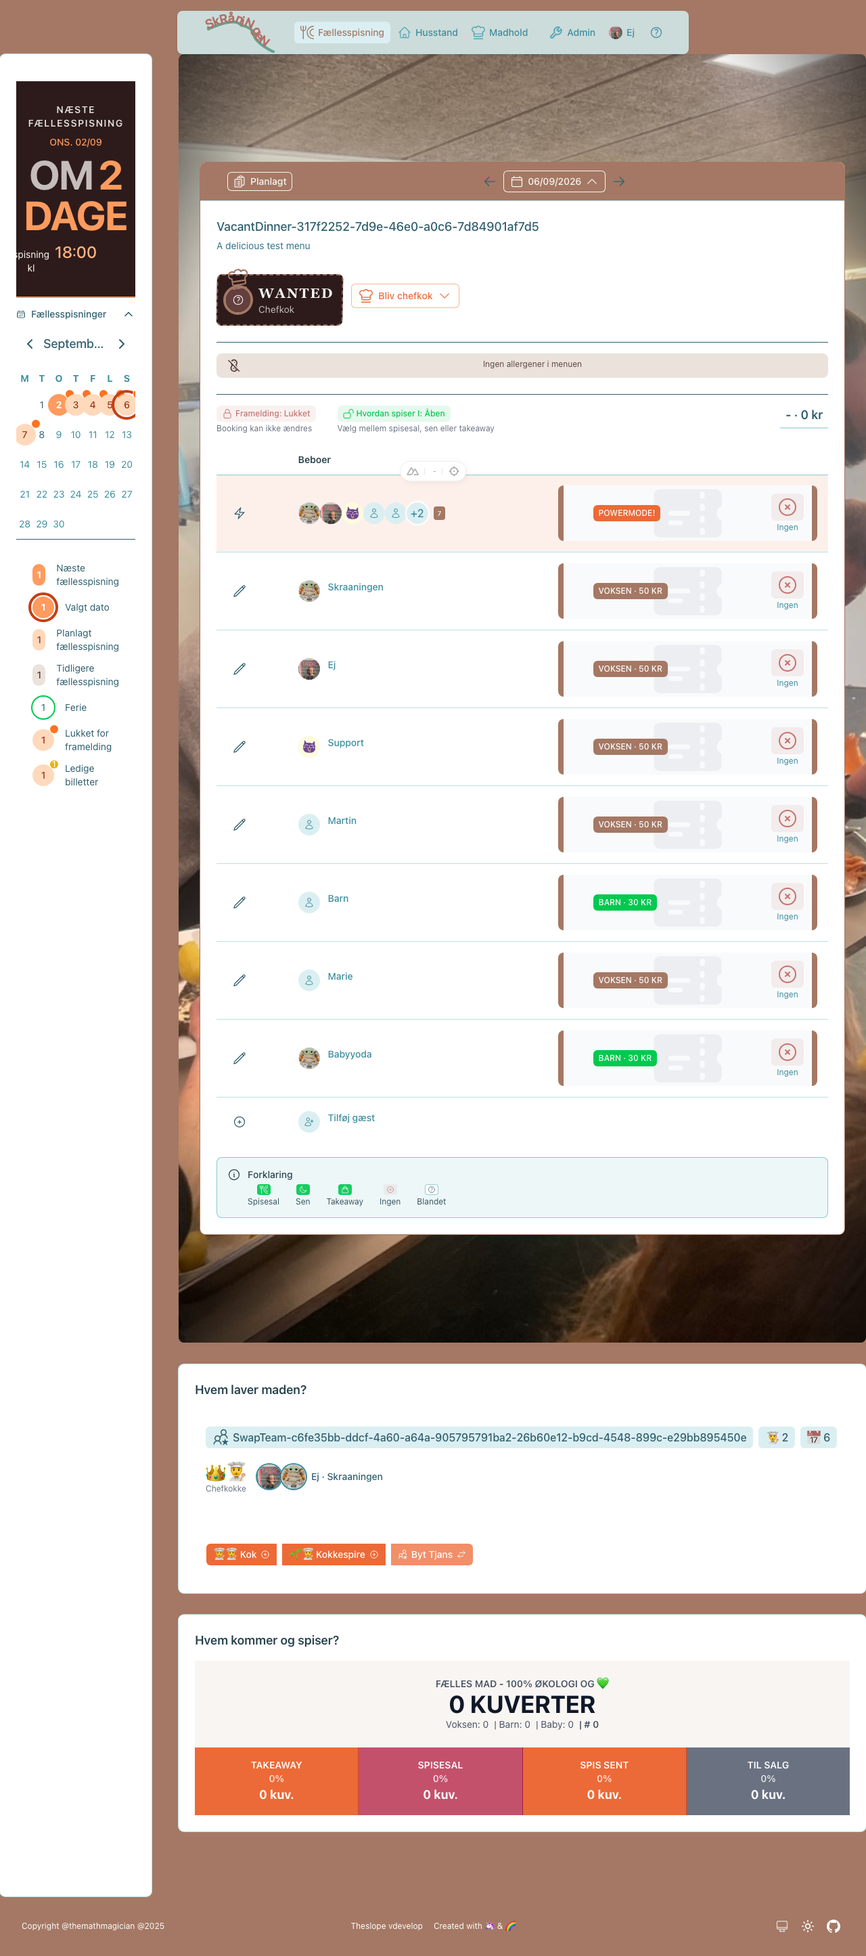
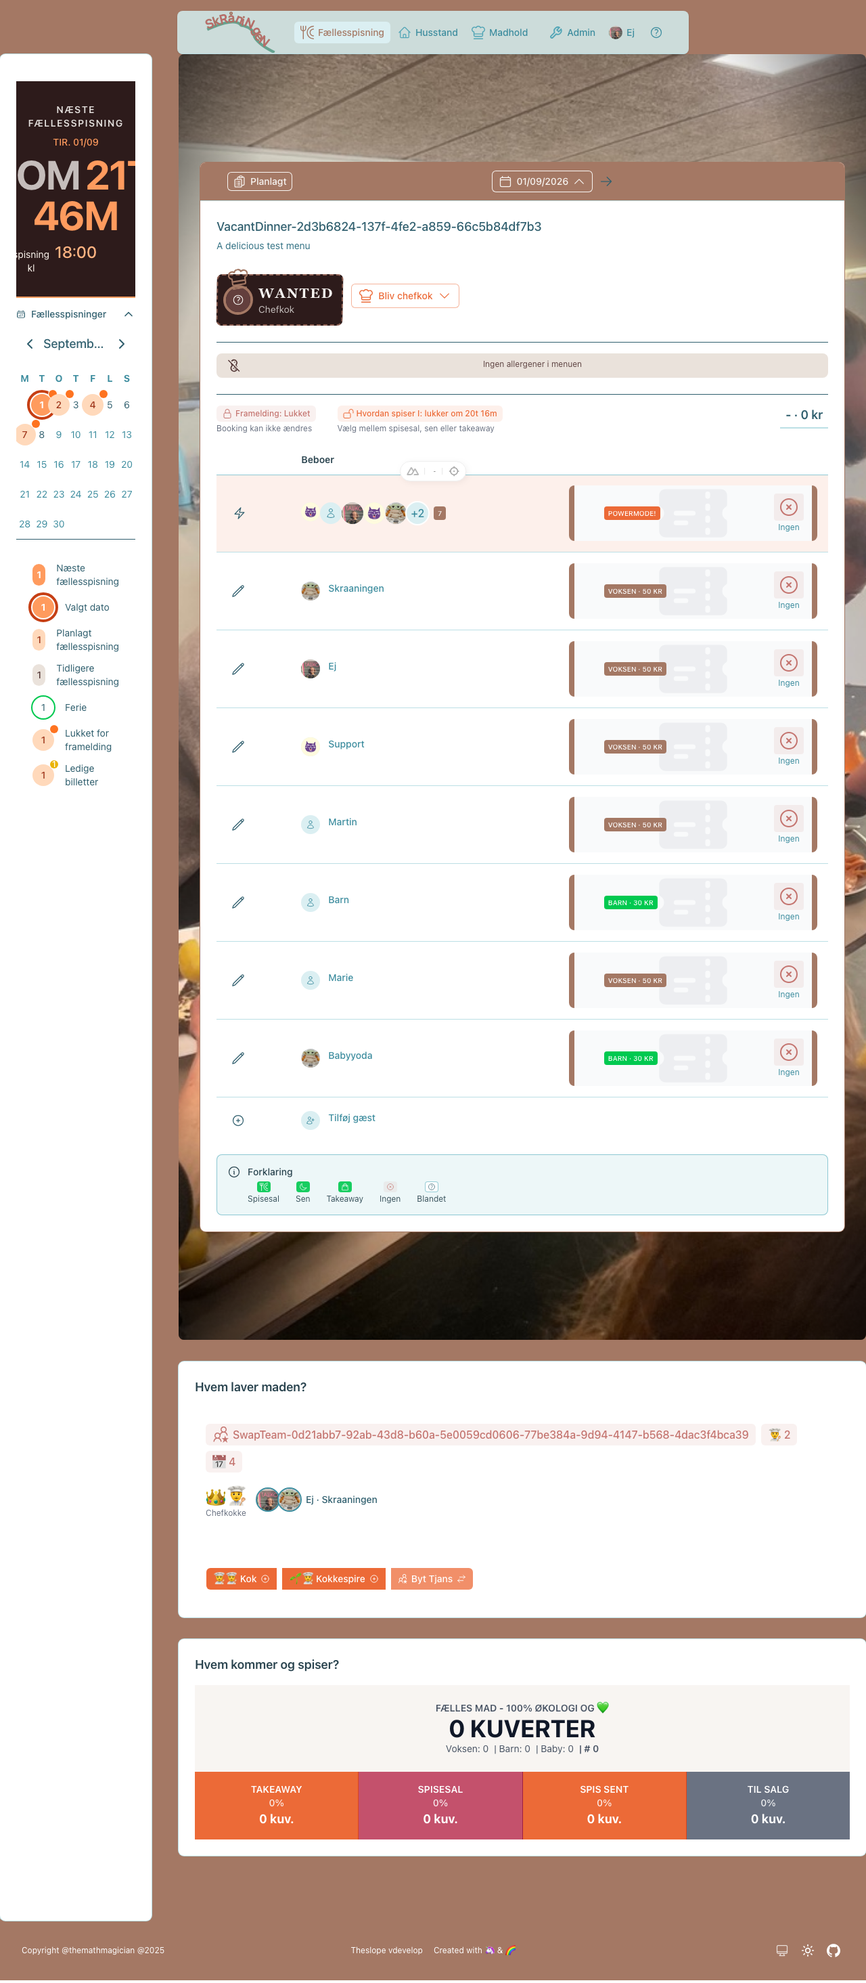
Updated notification feature with wiring poc first. Simplified e2e tests for chef takeover

diff --git a/tests/e2e/ui/serial/ChefSwap.e2e.spec.ts b/tests/e2e/ui/serial/ChefSwap.e2e.spec.ts
@@ -6,7 +6,7 @@ import {formatDate} from '~/utils/date'
 import {isThisACookingDay} from '~/utils/season'
 import testHelpers from '~~/tests/e2e/testHelpers'
 
-const {validatedBrowserContext, memberValidatedBrowserContext, pollUntil, getSessionUserInfo, temporaryAndRandom, doScreenshot} = testHelpers
+const {validatedBrowserContext, memberValidatedBrowserContext, pollUntil, pollForText, getSessionUserInfo, temporaryAndRandom, doScreenshot} = testHelpers
 const {TeamRoleSchema} = useCookingTeamValidation()
 const TeamRole = TeamRoleSchema.enum
 
@@ -44,9 +44,9 @@ test.describe('Chef Swap — volunteer flow', () => {
             5
         )
 
-    // Non-cooking days carry no generated event; the list is identical across
-    // workers (pure season config), so index gives each test a race-free date.
-    const createVacantDinner = async (ctx: BrowserContext, index: number) => {
+    // Non-cooking days carry no generated event. All tests share the first free date:
+    // afterEach empties the calendar, so dinners never coexist on it.
+    const createVacantDinner = async (ctx: BrowserContext) => {
         const season = await SeasonFactory.createActiveSeason(ctx)
 
         const freeDates: Date[] = []
@@ -56,8 +56,8 @@ test.describe('Chef Swap — volunteer flow', () => {
             if (!isThisACookingDay(cursor, season.cookingDays)) freeDates.push(new Date(cursor))
             cursor.setDate(cursor.getDate() + 1)
         }
-        expect(freeDates.length, 'season needs a free date per test').toBeGreaterThan(index)
-        const date = freeDates[index]!
+        expect(freeDates.length, 'season needs a free date').toBeGreaterThan(0)
+        const date = freeDates[0]!
         date.setHours(12, 0, 0, 0)
 
         const dinner = await DinnerEventFactory.createDinnerEvent(ctx, {
@@ -86,9 +86,16 @@ test.describe('Chef Swap — volunteer flow', () => {
         await SeasonFactory.assignMemberToTeam(adminCtx, teamId, memberInhabitantId, TeamRole.CHEF)
     })
 
+    // Runs on failure too — the shared date must be free before the next test
+    test.afterEach(async ({browser}) => {
+        const adminCtx = await validatedBrowserContext(browser)
+        for (const id of createdDinnerIds.splice(0)) {
+            await DinnerEventFactory.deleteDinnerEvent(adminCtx, id).catch(() => null)
+        }
+    })
+
     test.afterAll(async ({browser}) => {
         const adminCtx = await validatedBrowserContext(browser)
-        for (const id of createdDinnerIds) await DinnerEventFactory.deleteDinnerEvent(adminCtx, id).catch(() => null)
         for (const id of createdTeamIds) await SeasonFactory.deleteCookingTeam(adminCtx, id)
     })
 
@@ -97,10 +104,10 @@ test.describe('Chef Swap — volunteer flow', () => {
         {label: '/dinner', url: (date: Date) => `/dinner?date=${formatDate(date)}`}
     ]
 
-    mounts.forEach(({label, url}, mountIndex) => {
+    mounts.forEach(({label, url}) => {
         test(`${label}: chef lifecycle — volunteer then Meld afbud returns the dinner to vacant`, async ({browser}) => {
             const adminCtx = await validatedBrowserContext(browser)
-            const dinner = await createVacantDinner(adminCtx, mountIndex * 3)
+            const dinner = await createVacantDinner(adminCtx)
 
             const memberCtx = await memberValidatedBrowserContext(browser)
             const page = await memberCtx.newPage()
@@ -128,8 +135,8 @@ test.describe('Chef Swap — volunteer flow', () => {
             expect(assignResult!.status, 'assign-role must succeed').toBe(200)
             await expectDinnerChef(memberCtx, dinner.id, memberInhabitantId)
 
-            await expect(page.locator(ROLE_TRIGGER).first(), 'trigger leaves the volunteer label once chef').not.toContainText('Bliv chefkok')
-            await expect(page.locator(CHEF_WANTED).first(), 'WANTED placeholder gone').not.toBeVisible()
+            // Steady state: the server confirmed the chef; interact only once the UI settled on it
+            await pollForText(page, ROLE_TRIGGER, 'Rediger chefkokketjans')
             await expect(page.locator(CHEF_DISPLAY).first(), 'chef portrait renders after volunteer').toBeVisible()
             if (label === '/dinner') await doScreenshot(page, 'chef/role-assigned', true)
 
@@ -144,14 +151,13 @@ test.describe('Chef Swap — volunteer flow', () => {
             expect(removeResult!.status, 'remove-role must succeed').toBe(200)
             await expectDinnerChef(memberCtx, dinner.id, null)
 
-            await expect(page.locator(ROLE_TRIGGER).first(), 'trigger back to "Bliv chefkok"').toContainText('Bliv chefkok')
-            await expect(page.locator(CHEF_DISPLAY).first(), 'chef portrait gone').not.toBeVisible()
+            await pollForText(page, ROLE_TRIGGER, 'Bliv chefkok')
             await expect(page.locator(CHEF_WANTED).first(), 'dinner vacant again after Meld afbud').toBeVisible()
         })
 
         test(`${label}: takeover — member takes over the chefkok duty from the current chef`, async ({browser}) => {
             const adminCtx = await validatedBrowserContext(browser)
-            const dinner = await createVacantDinner(adminCtx, mountIndex * 3 + 2)
+            const dinner = await createVacantDinner(adminCtx)
             const adminInhabitantId = (await getSessionUserInfo(adminCtx)).inhabitantId
             await DinnerEventFactory.assignRoleToDinnerEvent(adminCtx, dinner.id, adminInhabitantId, TeamRole.CHEF)
 
@@ -176,7 +182,7 @@ test.describe('Chef Swap — volunteer flow', () => {
 
         test(`${label}: cancelling the volunteer form leaves the dinner without a chef if there was no chef before`, async ({browser}) => {
             const adminCtx = await validatedBrowserContext(browser)
-            const dinner = await createVacantDinner(adminCtx, mountIndex * 3 + 1)
+            const dinner = await createVacantDinner(adminCtx)
 
             const memberCtx = await memberValidatedBrowserContext(browser)
             const page = await memberCtx.newPage()

diff --git a/tests/e2e/testHelpers.ts b/tests/e2e/testHelpers.ts
@@ -213,6 +213,17 @@ const daysFromNow = (days: number) => {
     return d
 }
 
+/**
+ * Waits until the first element matching selector renders the expected text.
+ * Steady-state UI wait: interact only after the page settled on the state the server confirmed.
+ */
+const pollForText = (page: Page, selector: string, expected: string, maxAttempts?: number) =>
+    pollUntil(
+        async () => await page.locator(selector).first().textContent().catch(() => ''),
+        text => !!text?.includes(expected),
+        maxAttempts
+    )
+
 const testHelpers = {
     salt,
     saltedId,
@@ -221,6 +232,7 @@ const testHelpers = {
     validatedBrowserContext,
     memberValidatedBrowserContext,
     pollUntil,
+    pollForText,
     doScreenshot,
     selectDropdownOption,
     getSessionUserInfo,

diff --git a/docs/features/feature-proposal-notifications.md b/docs/features/feature-proposal-notifications.md
@@ -24,6 +24,7 @@ Expected volume: **10–50 notifications/day** once the trigger catalog lands (c
 | Address storage | **Normalized** — channels only; addresses resolved from `User.email` / `User.phone` at enqueue time | Email/phone are Heynabo-owned (nightly import overwrites them) → normalized means zero drift when HN data changes. The queue message snapshots the resolved address in `to:` for audit. Accepted limitation: SMS requires a phone in Heynabo. Upgrade path: TheSlope-owned `notificationPhone` override column later (non-breaking) |
 | v1 trigger | **Test notification only** — "Send testbesked" in the profile proves both channels end-to-end | Every future trigger is one template + one `notifyUsers()` call site (see Out of Scope) |
 | Templates | Danish, **app-side**; producer enqueues fully-rendered content | Domain knowledge stays in the app; the worker stays generic and reusable. Email `{subject, text, html?}`, SMS `{text}` ≤160 GSM-7 (æøå are in the GSM-7 basic set) |
+| Build order | **Infra-first — "don't touch theslope until the basics work"**: the delivery-pipe phase stands up the worker + queues and proves real delivery via a `make notify-test-dev` smoke target (Cloudflare Queues HTTP publish API); the Nuxt app is only modified from the schema phase on | The delivery pipe is verified end-to-end (real e-mail + SMS) before any app wiring; the smoke target remains a permanent ops tool |
 
 ## Architecture
 
@@ -378,7 +379,7 @@ logs-notifications-prod:     # npx wrangler tail theslope-notifications-prod --f
 
 | Item | Requirement | Cost |
 |---|---|---|
-| Workers Paid | required for Queues + Email Service | $5/mo — likely already active (`cpu_ms=180_000` in `wrangler.toml` is Paid-only); **verify in dashboard, Phase 0** |
+| Workers Paid | required for Queues + Email Service | $5/mo — **already active** ✓ |
 | Queues | included in Paid | 1M ops/mo included, then $0.40/M — negligible at this volume |
 | Email Service (public beta Apr 2026) | Paid + zone enablement | 3,000 mails/mo included, then $0.35/1k |
 | GatewayAPI SMS (DK) | prepaid account | 0.307 DKK/SMS → ~92–460 DKK/mo at 300–1,500 SMS/mo; no monthly fee |
@@ -409,19 +410,20 @@ Sources: developers.cloudflare.com (email-service pricing/limits/workers-api, qu
 | ADR-007 | All `$fetch` in the auth store; component renders from store/session state |
 | ADR-010 | Serialization confined to composable transforms + repository; domain types everywhere else |
 | ADR-012 | `Prisma.skip` branch in `serializeUserPartial` |
-| ADR-015 | Deliberately N/A — no send job; the queue replaces the outbox pattern (documented in new ADR-017) |
-| **ADR-017 (new)** | "Notification delivery via dedicated worker and versioned queue contract" — producer/consumer split, stateless consumer, contract ownership, provider ports, no-PII logging, the "notify never throws" degradation rule |
+| ADR-015 | Deliberately N/A — no send job; the queue replaces the outbox pattern (documented in ADR-017) |
+| **ADR-017 [Notification delivery via dedicated worker + versioned queue contract]** (new) | Producer/consumer split, stateless consumer, contract ownership, provider ports, no-PII logging, the "notify never throws" degradation rule |
 
 ## Phases (TDD, each independently shippable)
 
 > **Convention:** the USER runs all migrations, db operations, and account/infra commands (`make prisma-create-migration`, `npm run db:migrate:*`, `wrangler queues create/update`, `wrangler secret put`, dashboard steps). Claude prepares files and command lines; the user executes them.
 
-### Phase 0 — This proposal + account prerequisites ✍
+### Prerequisites — accounts + queues ✍
 
 Manual/dashboard, no code:
-1. Verify **Workers Paid**; enable **Email Service** for zone `skraaningen.dk`; sender domain verification (SPF/DKIM/DMARC auto — domain already on Cloudflare DNS); register `noreply@skraaningen.dk`.
-2. GatewayAPI account on the **EU platform** + API token (parked in the password manager until Phase 4).
-3. Create queues — **user-run** (separate DLQs per env — separate consumers, separate blast radius):
+1. Account is on **Workers Paid** ✓. Enable **Email Service** for zone `skraaningen.dk`; sender domain verification (SPF/DKIM/DMARC auto — domain already on Cloudflare DNS); register `noreply@skraaningen.dk`.
+2. GatewayAPI account on the **EU platform** + API token (needed by the delivery-pipe phase for `make secrets-notifications-dev`).
+3. A Cloudflare API token with **Queues Edit** permission for the smoke target (local `.env`: `CLOUDFLARE_API_TOKEN`, `CLOUDFLARE_ACCOUNT_ID` — the existing CI deploy token may already qualify; verify).
+4. Create queues — **user-run** (separate DLQs per env — separate consumers, separate blast radius):
 
 ```bash
 npx wrangler queues create theslope-notifications-dev
@@ -433,57 +435,78 @@ npx wrangler queues update theslope-notifications-dlq-prod --message-retention-p
 ```
 
 Do **not** create the `-local` queue names remotely — they only ever exist under miniflare.
-4. `docs/ops-runbook.md` — new "Notifications" section: queues, DLQ triage (incl. the PII/14d note), sender verification, secret rotation.
+5. `docs/ops-runbook.md` — new "Notifications" section: queues, DLQ triage (incl. the PII/14d note), sender verification, secret rotation, smoke target.
 
-### Phase 1 — Schema + serialization (no behavior change)
+### Delivery pipe — worker + `make notify-test-dev` smoke target (theslope UNTOUCHED)
+
+The whole delivery system stands alone and is proven with real messages before any app work. Only `workers/`, `Makefile`, `package.json` (`test:worker` script + pool-workers devDep) and CI are touched — **zero changes to app/server/prisma code**.
+
+- **Tests first:** contract accept/reject matrix (bad version, bad msisdn, >160 SMS, missing subject); consumer spec (pool-workers: batch of [valid email, valid sms, poison] with fake `EMAIL` binding + mocked `fetch` → ack/ack/ack; retryable throw → `msg.retry` with backoff; terminal → ack); provider spec (GatewayAPI status taxonomy parametrized: 200/429/500/400/401/402).
+- Add devDep `@cloudflare/vitest-pool-workers` (**verify peer range against root vitest 3.2.4 at install**; fallback: the handler takes `(batch, env)` so plain-node vitest with fakes works), `vitest.config.ts` kept OUT of root vitest projects, npm script `test:worker`.
+- Files: `workers/notifications/` complete — `src/{index,contract,delivery,mask}.ts`, `src/providers/{email,sms}.ts`, `wrangler.toml`, `tsconfig.json`, `vitest.config.ts`, tests.
+- Makefile: `deploy-notifications-{dev,prod}`, `secrets-notifications-{dev,prod}`, `logs-notifications-{dev,prod}`, and the smoke target — a plain curl against the [Queues HTTP publish API](https://developers.cloudflare.com/queues/examples/publish-to-a-queue-via-http/) with a contract-valid body (no app code, no extra worker routes):
+
+```make
+notify-test-dev: ## Smoke test: publish contract-valid EMAIL+SMS messages to the dev queue (real delivery!)
+	@curl -sf -X POST "https://api.cloudflare.com/client/v4/accounts/$$CLOUDFLARE_ACCOUNT_ID/queues/$$QUEUE_ID_NOTIFICATIONS_DEV/messages" \
+	  -H "Authorization: Bearer $$CLOUDFLARE_API_TOKEN" -H "Content-Type: application/json" \
+	  --data '{"body":{"v":1,"channel":"EMAIL","dedupeKey":"SMOKE:EMAIL:0:'$$(date -u +%FT%TZ)'","to":"'$$NOTIFY_TEST_EMAIL'","content":{"subject":"Skråningen: smoke test","text":"Notifikations-røret virker."},"meta":{"trigger":"SMOKE","userId":1,"enqueuedAt":"'$$(date -u +%FT%TZ)'","source":"theslope-app"}}}'
+	@# + second curl with channel SMS / to $$NOTIFY_TEST_MSISDN — then check inbox + phone
+```
+
+  (`QUEUE_ID_NOTIFICATIONS_DEV` from `npx wrangler queues info theslope-notifications-dev` or the dashboard; `NOTIFY_TEST_EMAIL`/`NOTIFY_TEST_MSISDN` = the operator's own address/number — all in `.env`, loaded by the existing `with_env` macro. A third variant sends garbage to prove the poison path: consumer acks + logs, DLQ stays empty.)
+- CI: chain `deploy-notifications-dev|prod` into the existing deploy targets; add `npm run test:worker` step.
+- **User runs:** `make deploy-notifications-dev` → `make secrets-notifications-dev` → `make notify-test-dev`.
+- **Exit criterion ("basics working"):** real e-mail in the inbox, real SMS on the phone, `wrangler queues info` backlog 0, DLQ 0, `make logs-notifications-dev` shows `📮 > NOTIFICATIONS > [EMAIL] delivered`. Only then does app work begin.
+
+### Schema — `notificationChannels` + serialization (first theslope change; no behavior change)
 
 - **Tests first:** parametrized round-trip unit specs over `[]`, `['EMAIL']`, `['SMS']`, `['EMAIL','SMS']`; `UserFactory` defaults; existing `UserProfileCard` component spec stays green.
 - `prisma/schema.prisma` enum + column; then **user runs** `make prisma-create-migration name=notifications` → `migrations/0015_notifications.sql` → `make d1-prisma` → `npm run db:migrate:local`.
 - All serialization touchpoints from the table above.
 - Ship: dormant column, default `["EMAIL"]`.
 
-### Phase 2 — Contract + producer service
+### Producer — templates + `notificationService`
 
-- **Tests first:** contract accept/reject matrix (bad version, bad msisdn, >160 SMS, missing subject) + wire/Prisma enum parity; `resolveDeliveries` matrix (channels × phone × rendering); `normalizeToMsisdn` parametrized; chunking at 100; degraded path (queue=undefined never throws); GSM-7 + length guard on `renderTestNotification`.
-- Files: `workers/notifications/src/contract.ts` (contract only — the worker dir exists before the worker; it is the contract's home), `app/composables/useNotificationValidation.ts`, `server/utils/notificationService.ts`, `server/utils/notifications/templates/testNotification.ts`.
+- **Tests first:** wire/Prisma enum parity (`WireChannelSchema` ↔ `NotificationChannelSchema`); `resolveDeliveries` matrix (channels × phone × rendering); `normalizeToMsisdn` parametrized; chunking at 100; degraded path (queue=undefined never throws); GSM-7 + length guard on `renderTestNotification`.
+- Files: `app/composables/useNotificationValidation.ts` (re-exports the contract from the delivery-pipe phase), `server/utils/notificationService.ts`, `server/utils/notifications/templates/testNotification.ts`.
 - App `wrangler.toml` producer bindings ×3 + `npm run cf-typegen`; verify the binding exists under `nuxt dev`.
 
-### Phase 3 — Endpoints (producer path shippable, into the queue)
+### Endpoints — channels + test
 
 - **Tests first (BDD):** `tests/e2e/api/user/notifications.e2e.spec.ts` with `UserFactory`: `POST channels ['EMAIL','SMS']` → 200 with channels; `POST channels ['SMS']` for phoneless user → 400; `POST test` → 200 + `TestNotificationResponseSchema` shape; unauthenticated → 401.
 - Files: `channels.post.ts`, `test.post.ts`, `usePermissions.ts` row.
 - `docs/adr-compliance-backend.md`: two new rows.
-- Ship: messages accumulate in the dev queue (visible via `wrangler queues info`) — harmless, they expire at retention.
+- Ship: deploy app to dev → `POST test` now feeds the already-proven delivery pipe → real messages arrive from the app.
 
-### Phase 4 — Notifications worker
-
-- **Tests first:** contract spec; consumer spec (pool-workers: batch of [valid email, valid sms, poison] with fake `EMAIL` binding + mocked `fetch` → ack/ack/ack; retryable throw → `msg.retry` with backoff; terminal → ack); provider spec (GatewayAPI status taxonomy parametrized: 200/429/500/400/401/402).
-- Add devDep `@cloudflare/vitest-pool-workers` (**verify peer range against root vitest 3.2.4 at install**; fallback: the handler takes `(batch, env)` so plain-node vitest with fakes works), `vitest.config.ts` kept OUT of root vitest projects, npm script `test:worker`.
-- Files: `src/index.ts`, `delivery.ts`, `mask.ts`, `providers/email.ts`, `providers/sms.ts`, `wrangler.toml`, `tsconfig.json`.
-- Makefile targets + CI chaining + `make secrets-notifications-dev`.
-- Deploy to dev → run Phase 3 E2E against dev → **a real e-mail and SMS arrive**.
-
-### Phase 5 — UI
+### UI — profile toggles + Send testbesked
 
 - **Tests first:** `UserProfileCard.nuxt.spec.ts` extensions (parametrized badges per channels; SMS toggle disabled without phone; `registerEndpoint` for both POSTs → save calls store, testbesked → toast; not-current-user hides section); `tests/e2e/ui/notifications.e2e.spec.ts` (edit → toggle → Gem → reload persists → Send testbesked → toast; `doScreenshot` documentation shot).
 - Files: `UserProfileCard.vue` (footer section + ASCII mockup comment), `app/stores/auth.ts` (two actions).
 - `docs/adr-compliance-frontend.md`: rows for component + store.
 
-### Phase 6 — ADR + docs
+### Docs — new ADR + compliance
 
-- **ADR-017** at the top of `docs/adr.md`.
-- `docs/features.md` entry + the Phase 5 screenshot; ops-runbook final pass; compliance docs' "Last Updated" lines.
+- **ADR-017 [Notification delivery via dedicated worker + versioned queue contract]** at the top of `docs/adr.md`.
+- `docs/features.md` entry + the UI-phase screenshot; ops-runbook final pass; compliance docs' "Last Updated" lines.
 
 ## Verification (dev.skraaningen.dk before prod)
 
 ```bash
+# delivery-pipe exit criterion — the pipe alone, before any app work:
+make deploy-notifications-dev && make secrets-notifications-dev
+make notify-test-dev                 # → real e-mail in inbox + SMS on phone
+make logs-notifications-dev          # 📮 > NOTIFICATIONS > [EMAIL] delivered / [SMS] delivered
+npx wrangler queues info theslope-notifications-dev       # backlog 0
+npx wrangler queues info theslope-notifications-dlq-dev   # 0 messages
+
 # unit + worker + component
 npm run test:unit && npm run test:worker
 
 # E2E (local, producer path)
 npx playwright test tests/e2e/api/user/notifications.e2e.spec.ts tests/e2e/ui/notifications.e2e.spec.ts --reporter=line
 
-# deploy dev (app + worker via chained Makefile target), then:
+# after app deploy (endpoints phase onward), the same pipe fed from the app:
 curl -s -b .cookies.txt -X POST "https://dev.skraaningen.dk/api/user/notifications/channels" \
   -H "Content-Type: application/json" -d '{"channels":["EMAIL","SMS"]}' | jq
 curl -s -b .cookies.txt -X POST "https://dev.skraaningen.dk/api/user/notifications/test" | jq
@@ -500,11 +523,12 @@ Prod: repeat the curl pair against `https://skraaningen.dk` after prod deploy + 
 
 ## Risks / open items
 
-- **Email Service is public beta** (Apr 2026): `env.EMAIL.send()` signature/error codes may drift before GA. Contained — only `providers/email.ts` touches it; Resend swap = one adapter + one secret. Re-verify binding key + typed errors against current docs in Phase 0.
-- **Paid plan + zone enablement are dashboard steps** — cannot be IaC'd; Phase 0 checklist + runbook.
+- **Email Service is public beta** (Apr 2026): `env.EMAIL.send()` signature/error codes may drift before GA. Contained — only `providers/email.ts` touches it; Resend swap = one adapter + one secret. Re-verify binding key + typed errors against current docs during prerequisites.
+- **Email Service zone enablement is a dashboard step** — cannot be IaC'd; prerequisites checklist + runbook.
 - **No full local loop** (two workers, one `nuxt dev`): accepted — producer E2E against the miniflare queue sink, consumer via pool-workers tests, dev environment proves integration.
-- **`@cloudflare/vitest-pool-workers` peer pinning** vs root vitest 3.2.4 — check at install; fallback documented in Phase 4.
-- **Sender ID** `Skraaningen` (11-char GSM alphanumeric, no å) — verify DK carrier acceptance with one real SMS in Phase 4.
+- **`@cloudflare/vitest-pool-workers` peer pinning** vs root vitest 3.2.4 — check at install; fallback documented in the delivery-pipe phase.
+- **Sender ID** `Skraaningen` (11-char GSM alphanumeric, no å) — DK carrier acceptance is verified by the very first `make notify-test-dev`.
+- **Smoke-target token**: the Queues HTTP publish API requires a token with **Queues Edit** — confirm the existing `CLOUDFLARE_API_TOKEN` scope or mint a dedicated one (prerequisites).
 - **Two-device session staleness**: channels are snapshotted in the session; the endpoint patches it and the store re-fetches, but a second logged-in device shows stale toggles until next login. Cosmetic — the test endpoint reads the DB row.
 - **CI deploys the worker on every push** even when unchanged — wrangler deploys are cheap and idempotent; acceptable v1.
 
